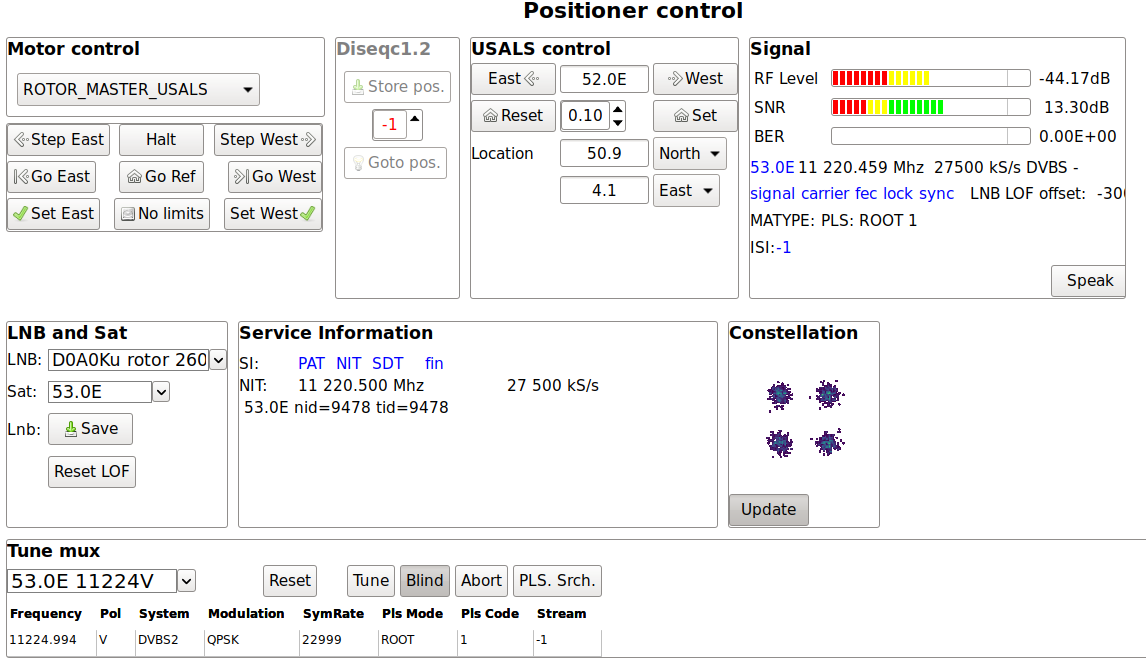
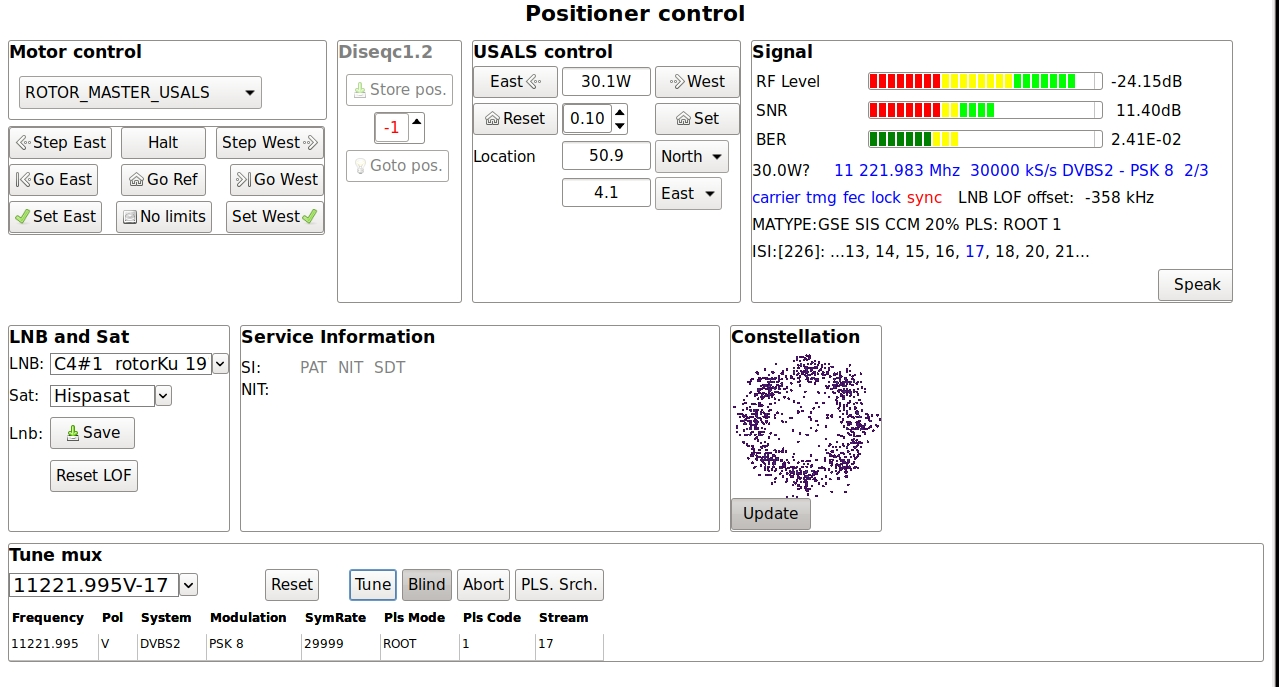
Positioner documentation

diff --git a/docs/positioner.md b/docs/positioner.md
@@ -31,22 +31,20 @@ the top panels are not useful. but the bottom panels allow you to easily tune to
 The top panel, from left to right, has the following sub-panels:
 
 * `Motor control`allows switching between USALS, DiSeQc1.2 positioners, slave LNBs (which are LNBs on a
-  moving dish, but without the possibility to send commands to the positioner)  and a setup without a positioner.
-  The documentation for the LNB screen provides related information.
+  moving dish, but without the possibility to send commands to the positioner)  and a setup without a
+  positioner. The documentation for the LNB screen provides related information.
+* The buttons below allow manual rotor control.  `Step East`  and `Step West` move the dish by the smallest
+  possible amount.  `Go East` and `Go West` will drive the dish continuously. Motion will stop when you
+  press `Halt`, when your dish reaches internal limits, or until it hits a wall or some other obstacle.
+  Use at your own risk.  `Go Ref` goes to the reference position. If your dish is properly installed,
+  it will move due south.
 
- * The buttons below allow manual rotor control.  `Step East`  and `Step West` move the dish by the smallest possible
-   amounts.  `Go East` and `Go West` will drive the dish continuously. Motion will stop when you press `Halt`,
-   when your dish reaches internal limits, or until it hits a wall or some other obstacle.
-   Use at your own risk.  `Go Ref` goes to the reference position. If your dish is properly installed,
-   it will move due south.
-
-   To avoid damage, it is possible to set software limits on the range in which the dish can move. To use this
-   feature, first move the dish using any of the positioner commands to the west-most position you consider
-   safe. Then press `Set West`. From this point on, the dish will refuse to move more west that this. The
-   `Set East` button operates similarly. If the set limits are too narrow, your can remove them by pressing
-   the `No limits` button and then set new ones.
-
- * `Diseqc 1.2` allows you to store dish positions at a specific numbered slot. First,  move the dish using
+  To avoid damage, it is possible to set software limits on the range in which the dish can move. To use this
+  feature, first move the dish using any of the positioner commands to the west-most position you consider
+  safe. Then press `Set West`. From this point on, the dish will refuse to move more west that this. The
+  `Set East` button operates similarly. If the set limits are too narrow, your can remove them by pressing
+  the `No limits` button and then set new ones.
+* `Diseqc 1.2` allows you to store dish positions at a specific numbered slot. First,  move the dish using
    any of the positioner commands until you receive the satellite you want. You can observe SNR levels to make
    the best possible decision and use `Step East` and `Step West` to fine tune.
    Once you are satisfied with the current position, enter a preset number in the text field
@@ -57,9 +55,7 @@ The top panel, from left to right, has the following sub-panels:
    *Very important*. After making changes, these changes are not automatically saved. You need to press the
    `Save` button on the `LNB and sat` panel to save the preset position into the database. In case you forget,
    neumoDVB will remind you when you try to close the positioner control.
-
-
- * `USALS control` allows you to send the positioner manually to a specific satellite position,
+* `USALS control` allows you to send the positioner manually to a specific satellite position,
    by entering it in text form in various formats: 5.0W, -5.0, ... The `East` and `West buttons` ask for
    a small step in the specified direction, but in this case the step is in known units (e.g., 0.1 degree)
    which means neumoDVB knwows the position the dish moves to and shows it on screen.
@@ -72,15 +68,32 @@ The top panel, from left to right, has the following sub-panels:
    neumoDVB will remind you when you try to close the positioner control.
 
    `Location` allows you to enter your dish's location. Changes to the values will be taken into
-   account the next time any USALS operation is performed. Unfortunately changes are not yet written
-   to neumoDVB's config file, so you will need to edit that file to make permanent changes.
+   account the next time any USALS operation is performed. These changes are written to the database
+   as soon as they are changed, and therefore remembered.
+* `Signal Panel` shows signal strength and SNR, tuning information reported by the driver, lock status,
+  and information about the type of DVB signal received and the streams it contains.
 
- * `LNB and Sat` allows you to select the desired LNB and the network (sat) on this LNB. The `Save` button
+  The `Speak` button, when enabled will read out the SNR level using computer audio. Every few seconds it
+  will also speak the currently tuned satellite position. This information is obtained from the DVB stream,
+  so - apart from bad information in the stream - the satellite position is correct. This is handy when
+  tuning a dish: for instance you can use a USB card and a laptop to run neumoDVB near your dish. It well
+  tell you if the dish is pointing at the right sat, and tell you if adjustments improve the signal.
+  Alternative solutions would include sending the audio through other means, e.g., a baby-phone.
+* `LNB and Sat` allows you to select the desired LNB and the network (sat) on this LNB. The `Save` button
    saves all kinds of lnb related changes, including usals settings, default mux ...
    The `Reset LOF` button resets the local oscillator offset of the LNB to zero. The latter is automatically
    updated by comparing information from the driver with service information from the mux
 
- * `Tune Mux` allows you to select a mux from the list of known muxes, and then adjusting the main tuning parameters
-   as needed. If the `Blind` button is gray, nlindscan will be performed. The `Tune` button starts tuning.
-   The `ABort button` ends tuning. `PLS srch.` is an experimental feature to cycle through all possile PLS codes
-   until the mux locks (this can take several hours)
+* `Service Information` displays information received from the stream (if any). The panel indicates the
+   status of data reception using colours: gray, black or blue colour indicate that PAT, NIT or SDT
+   dat have not been received, have been partially or fully received. If a NIT table is received,
+   and if it contains valid information about the tuned mux, this panel also indicates the satellite
+   position, frequency and other tuning information included in the stream.
+
+* `Constellation` shows IQ samples retrieved from the driver. The `Update` button can toggle this diplay
+  on or off.
+
+* `Tune Mux` allows you to select a mux from the list of known muxes, and then adjusting the main tuning
+   parameters as needed. If the `Blind` button is gray, nlindscan will be performed. The `Tune` button starts
+   tuning. The `ABort button` ends tuning. `PLS srch.` is an experimental feature to cycle through all possile
+   PLS codes until the mux locks (this can take several hours).
